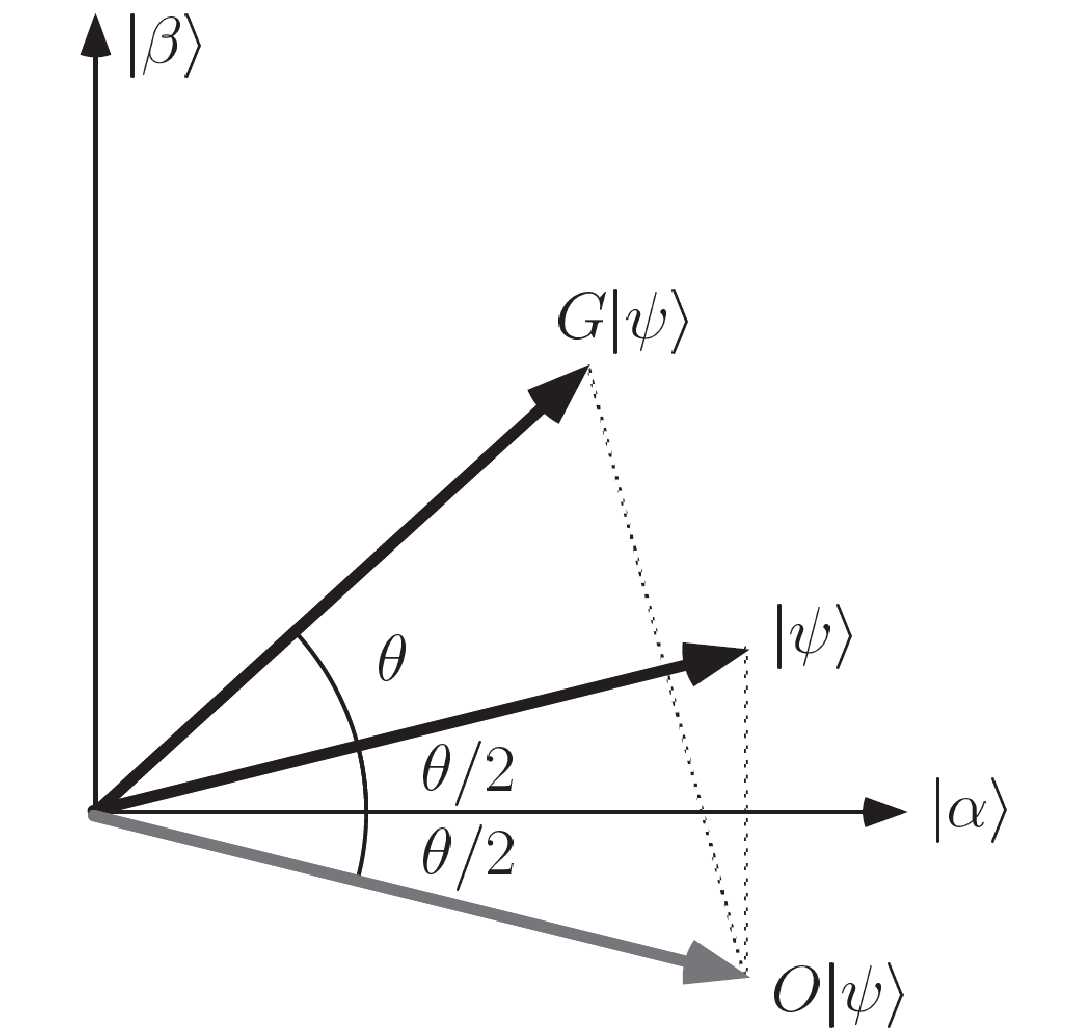
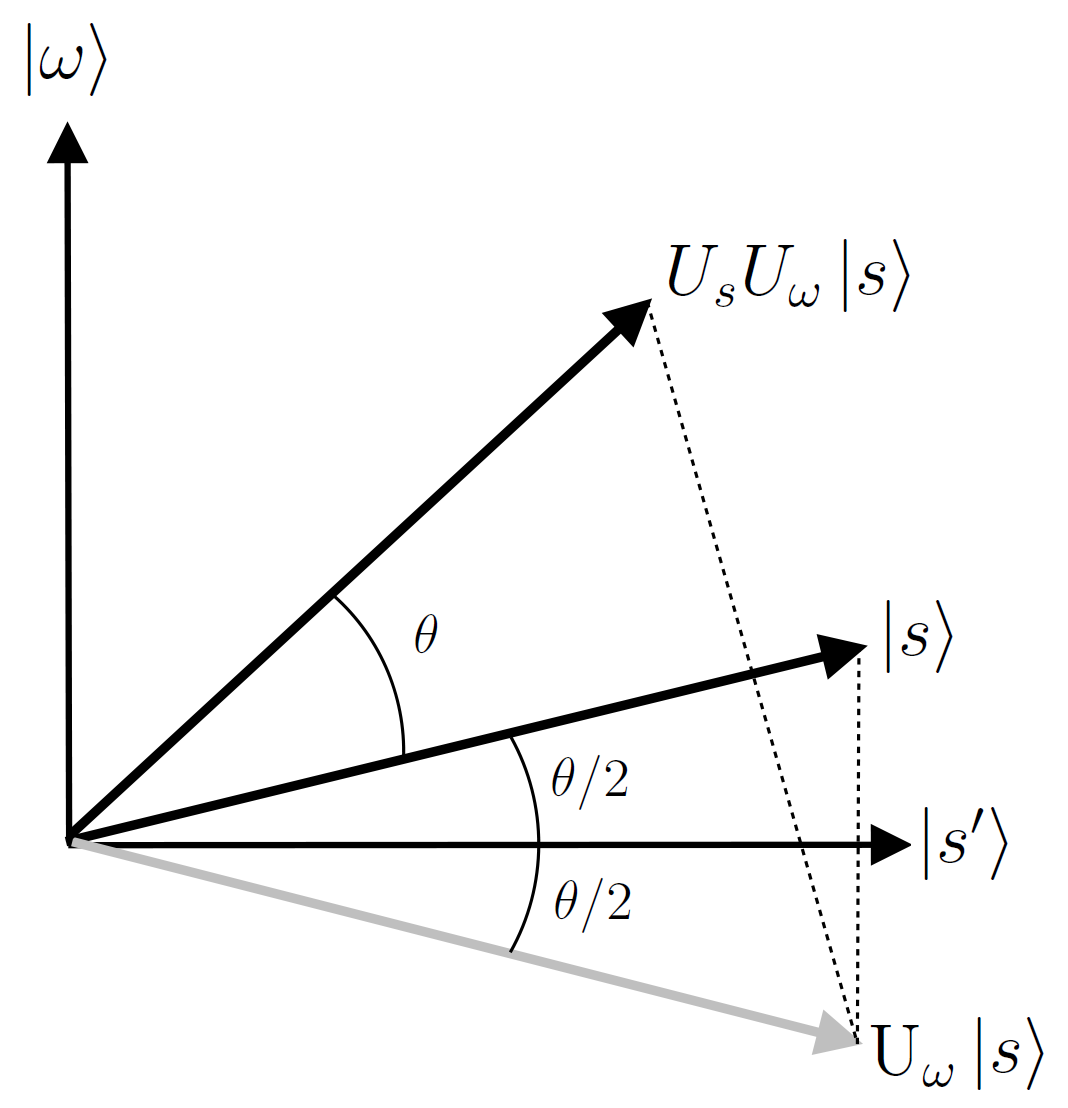
feat: section 2.1 draft

Changed region(s): [[0.0, 0.0, 0.9888, 0.9884], [0.3708, 0.556, 0.4326, 0.5869]]

diff --git a/Chapters/Chapter2/Section1.tex b/Chapters/Chapter2/Section1.tex
@@ -12,37 +12,95 @@ The algorithm makes use of a single $n$ qubit register. It begins with the compu
    \ket{\psi} = \frac{1}{\sqrt{N}} \sum_{x=0}^{N-1}\ket{x}
 \end{equation}
 where $\ket{x}$ is the index register and each index has the same probability amplitude (i.e. $\sqrt{N}$).
-The iteration of the algorithm may be broken up in four steps:
+The \emph{Grover iteration} of the algorithm may be broken up in four steps:
 
 \begin{enumerate}
-  \item Apply the subroutine $\hat{U}_w$ (we are going to discuss it in section~\ref{sec:subroutine}).
+  \item Apply the \emph{subroutine} $\hat{U}_w$ (we are going to discuss it in section~\ref{sec:subroutine}).
   \item Apply the Hadamard transform $\hat{H}^{\otimes n}$ \label{enum:first-hadamard}
-  \item Perform a conditional phase shift on the quantum computer, with every computational basis state except $\ket{0}$ receiving a phase shift of $-1$,
+  \item \label{enum:phase-shift} Perform a conditional phase shift on the quantum computer, with every computational basis state except $\ket{0}$ receiving a phase shift of $-1$,
   \begin{equation*}
       \ket{x} \rightarrow -(-1)^{\delta_{x0}} \ket{x}.
   \end{equation*}
   \item Apply the Hadamard transform $\hat{H}^{\otimes n}$ \label{enum:second-hadamard}
 \end{enumerate}
-Initializing the system is obtained in $\mathcal{O}(\log{N})$, steps~\ref{enum:first-hadamard} and ~\ref{enum:second-hadamard}, the Hadamard transforms, require $n=\log{N}$ operations each.
+Initializing the system is obtained in $\mathcal{O}(\log_2{N})$ steps while steps~\ref{enum:first-hadamard} and~\ref{enum:second-hadamard}, the Hadamard transforms, require $n=\log_2{N}$ operations each. Step~\ref{enum:phase-shift}, the conditional phase shift, may be implemented using $\mathcal{O}(n)$gates. The cost of the subroutine call depends upon the specific application but we can note that the iteration requires only a single subroutine call.
 
 
 \begin{defn}
-We can demonstrate that the unitary operator corresponding to the phase shift in the iteration is $2\ket{0}\bra{0}-\hat{I}$. The combined effect of steps 2,3 and 4 is then:
-\begin{equation}
+We can demonstrate that the unitary operator corresponding to the phase shift in the iteration is $2\ket{0}\bra{0}-\hat{I}$. The combined effect of steps~\ref{enum:first-hadamard},\ref{enum:phase-shift} and~\ref{enum:second-hadamard} is then:
+\begin{equation*}
     \hat{H}^{\otimes n} (2\ket{0}\bra{0}-\hat{I}) \hat{H}^{\otimes n} =  2\ket{\psi}\bra{\psi}-\hat{I}
-\end{equation}
-with $\ket{\psi}$ being the initial state in~\ref{eq:initial-state}. The iteration may then be written as
-\begin{equation}
-    \hat{U}_w \equiv 2 \ket{\psi}\bra{\psi} - \hat{I}
+\end{equation*}
+with $\ket{\psi}$ being the initial state in~\ref{eq:initial-state}. Those steps may then be written as
+\begin{equation*}
+    \hat{U}_s \equiv 2 \ket{\psi}\bra{\psi} - \hat{I}.
+\end{equation*}
+\end{defn}
+\begin{defn}
+We can define the Grover iteration as
+\begin{equation}\label{def:grover-iteration}
+G \equiv \hat{U}_s\hat{U}_w = (2 \ket{\psi}\bra{\psi} - \hat{I}) \hat{U}_w
 \end{equation}
 \end{defn}
+\begin{figure}
+\includegraphics{circuit.png}
+\centering
+\caption{Circuit for the quantum search algorithm.}
+\end{figure}
+\begin{figure}
+\includegraphics{iteration.png}
+\centering
+\caption{Iteration $U_sU_w$}
+\end{figure}
 
-
-\subsubsection{Quantum search with M=1}
-\begin{description}
-   \item This is an entry \textit{without} a label.
-   \item[Something short] A short one-line description.
-   \item[Something long] A much longer description. 
-\end{description}
 \subsection{The subroutine}\label{sec:subroutine}
+Suppose we are supplied with a black box $f(x)$ whose internal workings are not important with the ability to recognize the solution:
+\begin{defn}
+Let's define the function $f: \{0,1,...,N-1\} \rightarrow \{0,1\}$ as follows
+\begin{equation*}
+    \begin{cases}
+f(x) = 1  & \text{if $x$ is a solution to the search problem} \\
+f(x) = 0 & \text{if $x$ is not a solution to the search problem} 
+\end{cases}
+\end{equation*}
+\end{defn}
+\begin{defn}
+The subroutine $\hat{U}_w$ is a unitary operator defined by its action on the computational basis
+\begin{equation*}
+    \ket{x}\ket{q} \xrightarrow{\hat{U}_w} \ket{x} \ket{q \oplus f(x)}
+\end{equation*}
+\end{defn}
+where $\ket{x}$ is the index register and $\ket{q}$ is an \emph{oracle qubit}, a single qubit which is flipped if $f(x) = 1$ and is unchanged otherwise.
+
+It is useful to set the oracle qubit initially in the state $\ket{q} = \frac{\ket{0}-\ket{1}}{\sqrt{2}}$ the action of the subroutine is thus\footnote{If $x$ is not a solution, applying the subroutine to $\ket{q}$ leaves the state unchanged. On the other and if $x$ is a solution $\frac{\ket{0 \oplus 1} - \ket{1 \oplus 1}}{\sqrt{2}} = \frac{\ket{1}-\ket{0}}{\sqrt{2}} = - \frac{\ket{0}-\ket{1}}{\sqrt{2}}$. And $\ket{x}$ is not affected by the value of $f(x)$.}:
+\begin{equation*}
+    \hat{U}_w \ket{x} \biggl(\frac{\ket{0}-\ket{1}}{\sqrt{2}}\biggr) = (-1)^{f(x)} \ket{x} \biggl(\frac{\ket{0}-\ket{1}}{\sqrt{2}}\biggr).
+\end{equation*}
+We can see that the state of the oracle qubit is not changed; it turns out that this remains  $\frac{\ket{0}-\ket{1}}{\sqrt{2}}$ throughtout the iteration, and can therefore be omitted:
+\begin{equation*}
+    \hat{U}_w \ket{x} = (-1)^{f(x)} \ket{x}.
+\end{equation*}
+The subroutine marks the solution by shifting the phase of the solution. For a $N$ item search with $M$ solutions, we need to apply the search subroutine $\mathcal{O}(\sqrt{N/M})$ times in order to obtain a solution.
+
+\subsection{Example with only one solution}
+Before now no assumption were made about the number of solutions $M$, let's now give an example with $M=1$.
+\begin{description}
+   \item[Inputs] The inputs of the quantum computer are:
+    \begin{enumerate}
+  \item The subroutine $\hat{U}_w$ which perform the transformation $\hat{U}_w\ket{x}\ket{q} = \ket{x}\ket{q \oplus f(x)}$, where $f(x) = 0$ for all $0 \leq x \leq 2^n$ except $x_o$.
+  \item $n+1$ qubits in the state $\ket{0}$.
+\end{enumerate}
+   \item[Outputs] $x_0$.
+   \item[Runtime] $R = \mathcal{O}(\sqrt{2^n})$ operations\footnote{$R \approx \frac{\pi \sqrt{2^n}}{4}$ as we will see in section~\ref{sec:performance}}. Succeeds with probability $\mathcal{O}(1)$.
+   \item[Prcedure] The iteration is the following:
+   \begin{enumerate}
+  \item $\ket{0}^{\otimes n} \ket{0}$ \label{enum:initial-state}
+  \item $\begin{aligned} \rightarrow \frac{1}{\sqrt{2^n}} \sum_{x=0}^{2^n-1}\ket{x} \biggl[\frac{\ket{0}-\ket{1}}{\sqrt{2}}\biggr] \end{aligned}$ \label{enum:hadamard}
+  \item $\begin{aligned} \rightarrow \bigl[(2 \ket{\psi}\bra{\psi} - \hat{I})\hat{U}_w\bigr]^R \frac{1}{\sqrt{2^n}} \sum_{x=0}^{2^n-1}\ket{x} \biggl[\frac{\ket{0}-\ket{1}}{\sqrt{2}}\biggr] \approx \ket{x_0} \biggl[\frac{\ket{0}-\ket{1}}{\sqrt{2}}\biggr] \end{aligned}$ \label{enum:iteration}
+  \item $\rightarrow x_0$ \label{enum:result}
+\end{enumerate}
+\end{description}
+
+Step~\ref{enum:initial-state} it is simply the initial state. Step~\ref{enum:hadamard} consist of applying $H^{\otimes n}$ to the first $n$ qubits and $H X$ to the last qubit. Step~\ref{enum:iteration} is the Grover iteration defined in~\ref{def:grover-iteration} applied $R$ times and step~\ref{enum:result} is the result.
+
 

diff --git a/Chapters/Chapter2/Section4.tex b/Chapters/Chapter2/Section4.tex
@@ -1,3 +1,5 @@
 \section{Computational complexity}
-Any computational problem that can be solved by a classical computer can also be solved by a quantum computer \cite[29]{NielsenChuang}. Conversely, any problem that can be solved by a quantum computer can also be solved by a classical computer, at least in principle given enough time.
+Any computational problem that can be solved by a classical computer can also be solved by a quantum computer \cite[29]{NielsenChuang}. Conversely, any problem that can be solved by a quantum computer can also be solved by a classical computer, at least in principle given enough time.'
+\subsection{Performance}\label{sec:performance}
 \subsection{Optimality of the search algorithm}
+\subsection{NP vs BPQ}

diff --git a/Chapters/Chapter2/Index.tex b/Chapters/Chapter2/Index.tex
@@ -1,5 +1,5 @@
 \chapter{Grover's algorithm}
-Grover's algorithm improves unstructured search from $\mathcal{O}(n)$ to $\mathcal{O}(\sqrt{n})$
+Grover's algorithm improves unstructured search from $\mathcal{O}(N)$ to $\mathcal{O}(\sqrt{N})$. The great utility of the  algorithm arises because we do not assume any particular structure to the search problems being performed.
 \input{Chapters/Chapter2/Section1}
 \input{Chapters/Chapter2/Section2}
 \input{Chapters/Chapter2/Section3}
